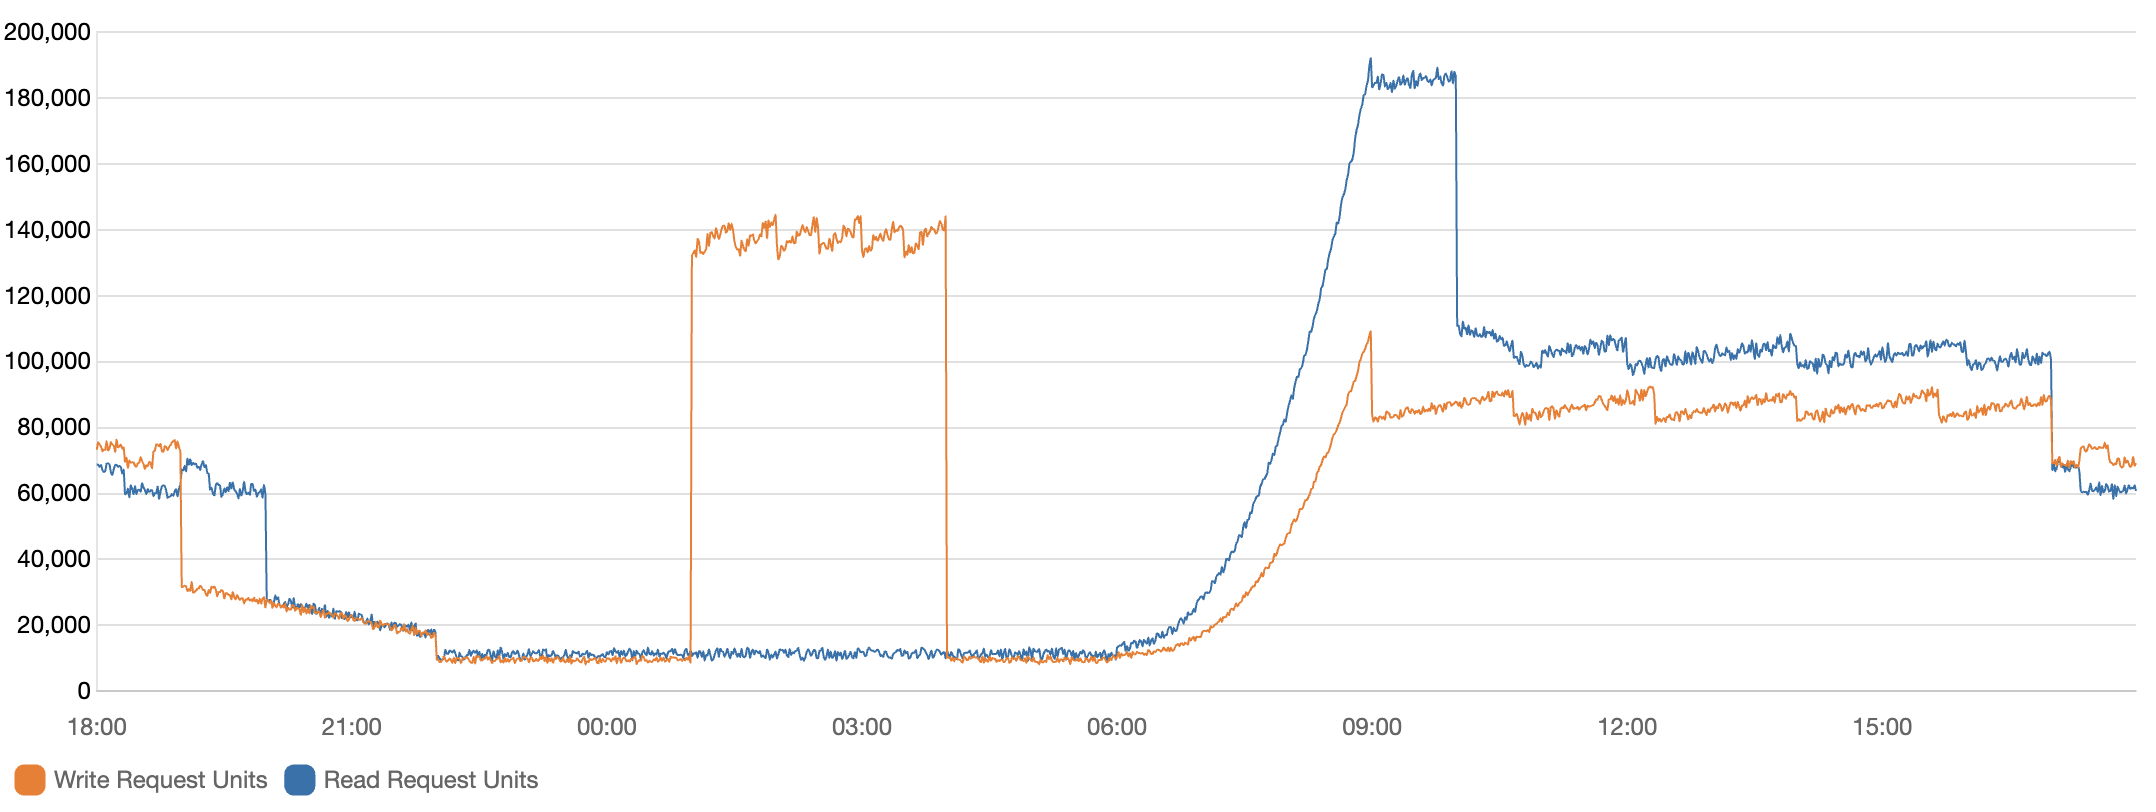
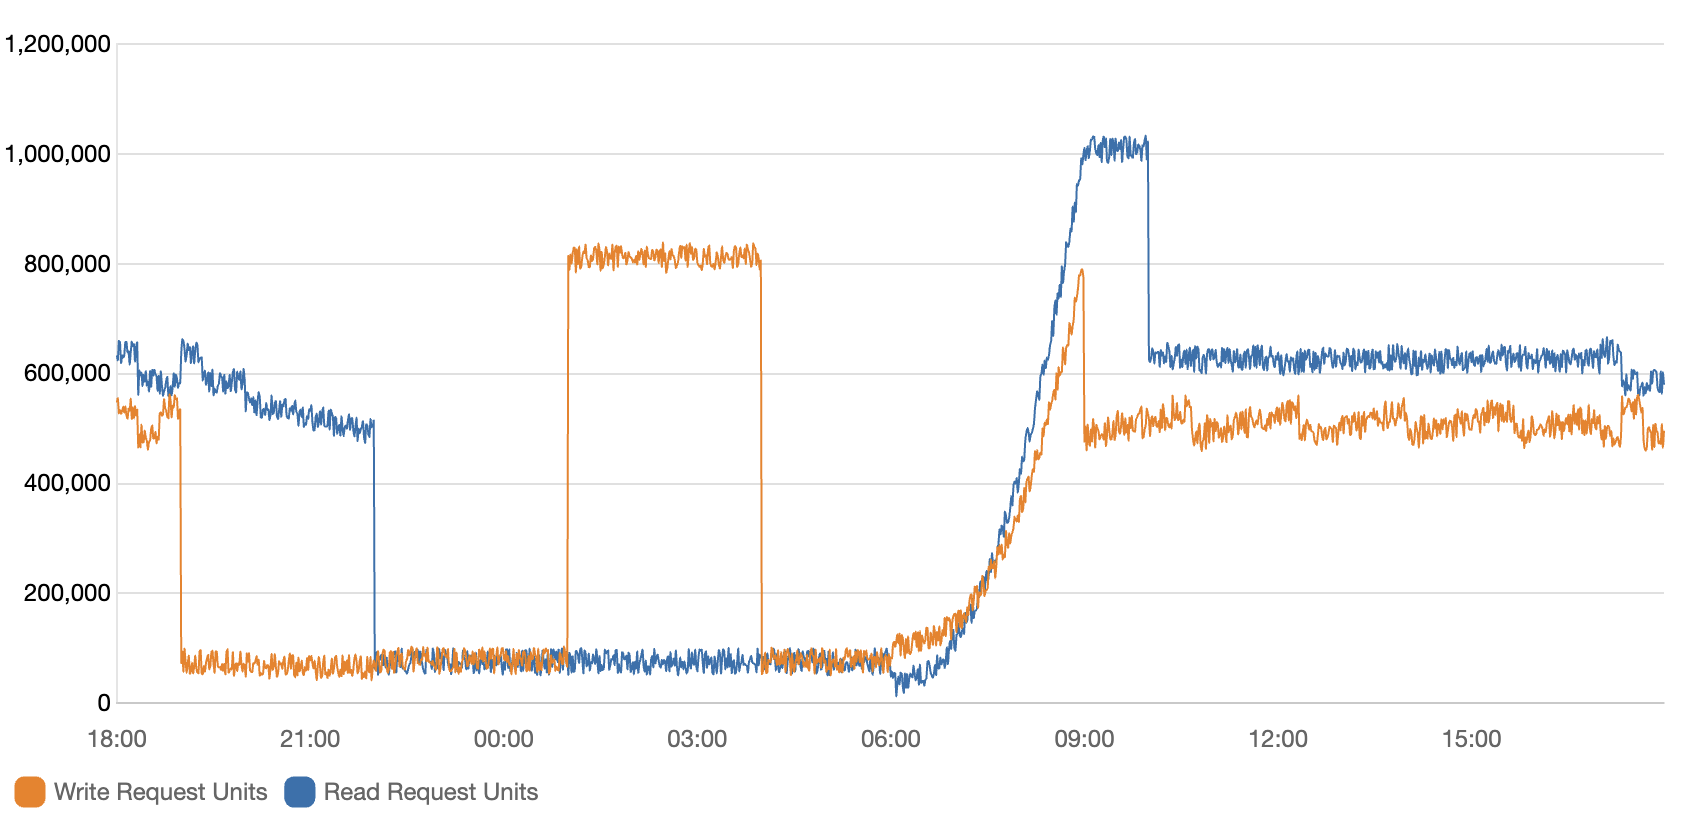
bigger on demand example

diff --git a/docs/source/getting-started/dynamodb/guides/costs/scenarios.rst b/docs/source/getting-started/dynamodb/guides/costs/scenarios.rst
@@ -20,15 +20,15 @@ The example graph below illustrates this type of workload.
 
 This graph shows the total number of read request units (in blue) and write request units (in orange) over a 24 hour period. To convert this to ops/sec, we know that 1 read request unit = 1 read per second for an item up to 4 KB in size. So assuming this is making strongly consistent reads and the reads are ≤ 4 KB:
 
-* At the peak, we can observe ~180,000 reads/sec.
-* During the daytime period, we can observe ~100,000 reads/sec.
-* In quieter periods, it drops to ~10,000 reads/sec.
+* At the peak, we can observe ~1,000,000 reads/sec.
+* During the daytime period, we can observe ~600,000 reads/sec.
+* In quieter periods, it drops to ~50,000 reads/sec.
 
 For the writes, we know that 1 write request unit = 1 write per second for an item up to 1 KB in size. So assuming the writes are ≤ 1 KB:
 
-* At the peak, we can observe ~140,000 writes/sec. This is a sustained peak and appears to be an overnight batch job.
-* During the daytime period, we can observe ~80,000 writes/sec.
-* In quieter periods, it drops to ~10,000 writes/sec.
+* At the peak, we can observe ~840,000 writes/sec. This is a sustained peak and appears to be an overnight batch job.
+* During the daytime period, we can observe ~500,000 writes/sec.
+* In quieter periods, it drops to ~50,000 writes/sec.
 
 But what's the cost of this workload in On Demand mode?
 .......................................................
@@ -39,12 +39,12 @@ Our `DynamoDB Cost Calculator <https://calculator.scylladb.com>`_ allows you to 
 
 Using raw chart data, we can determine the following:
 
-* Baseline of 60,000 reads/sec average for the 24 hour period, plus a peak of 180,000 reads/sec for 1 hour.
-* Baseline of 60,000 writes/sec average for the 24 hour period, plus a peak of 140,000 writes/sec for 3 hours.
+* Baseline of 410,000 reads/sec average for the 24 hour period, plus a peak of 1,000,000 reads/sec for 1 hour.
+* Baseline of 380,000 writes/sec average for the 24 hour period, plus a peak of 800,000 writes/sec for 3 hours.
 
-The `estimate for this On Demand workload on DynamoDB <https://calculator.scylladb.com/?pricing=demand&storageGB=512&itemSizeB=1024&tableClass=standard&baselineReads=60000&baselineWrites=60000&peakReads=180000&peakWrites=140000&peakDurationReads=1&peakDurationWrites=3&reserved=0&readConst=100>`_ is around **$136,208/month** in On Demand mode.
+The `estimate for this On Demand workload on DynamoDB <https://calculator.scylladb.com/?pricing=demand&storageGB=512&itemSizeB=1024&tableClass=standard&baselineReads=410000&baselineWrites=380000&peakReads=1000000&peakWrites=800000&peakDurationReads=1&peakDurationWrites=3&reserved=0&readConst=100>`_ is around **$851,978/month** in On Demand mode.
 
-A ScyllaDB `cluster configuration with 9 nodes of i4i.large <https://www.scylladb.com/product/scylla-cloud/get-pricing/?reads=60000&writes=60000&itemSize=1&storage=1&cloudProvider=AWS>`_, would cost around **$3,025/month**. This cluster could sustain up 175,500 ops/sec with peaks up to 270,000 ops/sec with a significant cost reduction.
+A ScyllaDB `cluster configuration with 3 nodes of i4i.8xlarge <https://www.scylladb.com/product/scylla-cloud/get-pricing/?reads=400000&writes=400000&itemSize=1&storage=1&cloudProvider=AWS>`_, would cost around **$19,422/month**. This cluster could sustain up 936,000 ops/sec with peaks up to 1,440,000 ops/sec with a significant cost reduction.
 
 .. raw:: html
 
